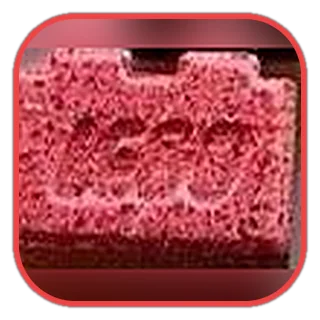
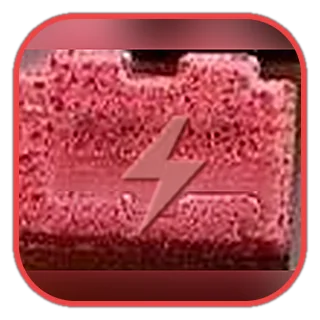
Le Labo : cachets retouchés pour ne plus rappeler de marques connues
- cachet souris : passé en orange, visage effacé, étoile gravée (renommé « Cachet ourson »)
- cachet brique (aussi la petite taz du bonus) : logo effacé, grain reconstitué, éclair gravé
- cache spinbet-v13

Claude-Session: https://claude.ai/code/session_017EaWtL9mGHHqnePr7Tdfev

diff --git a/index.html b/index.html
@@ -7248,6 +7248,7 @@ __mods['updates.js'] = (() => {
 const { getGame } = __mods['games/index.js'];
 
 const UPDATES = [
+  { game: 'labo', date: '2026-11-01', title: 'Cachets retouchés', items: ['Nouveau cachet ourson orange avec une étoile', 'Nouvelle taz brique avec un éclair gravé'] },
   { game: 'labo', date: '2026-11-01', title: 'Le Boss et la mallette', items: ['Nouveau Boss en symbole premium : cheveux violets, lunettes arc-en-ciel et joint', 'Nouvelle mallette qui lance le bonus', 'Le démon au-dessus des rouleaux est retiré : le festival se voit mieux'] },
   { game: 'labo', date: '2026-11-01', title: 'Joint, champignon et taz pailletée', items: ['Nouveau joint et nouveau champignon magique', 'Nouvelle taz pailletée dans La Mallette : le hippie au sac qui aspire toutes les taz'] },
   { game: 'labo', date: '2026-11-01', title: 'Le Labo prend vie', items: ['Nouvelle jaquette et nouveau décor : le festival', 'Nouveaux symboles : feuille, cachet diamant, buvard LSD, cachet rose, poudre, cachet brique et le Boss', 'Nouveau WILD et nouveau SCATTER : les hippies', 'Nouvelle feuille et feuille d’or dans La Mallette'] },
@@ -9886,7 +9887,7 @@ const FILES = {
   plinko: ['plinko', 'games/impl/plinko.js', 'PlinkoGame', '217f54e3fd'],
   vortex: ['vortex', 'games/impl/vortex.js', 'VortexGame', '3f3eaaaa3b'],
   casse: ['casse', 'games/impl/casse.js', 'CasseGame', 'f3c9203150'],
-  labo: ['labo', 'games/impl/labo.js', 'LaboGame', 'ce7f6f50e8'],
+  labo: ['labo', 'games/impl/labo.js', 'LaboGame', 'e6287e4258'],
   dragons: ['dragons', 'games/impl/dragons.js', 'DragonsGame', '2fcc40562a'],
   billets: ['billets', 'games/impl/billets.js', 'BilletsGame', '67c9c0259d'],
   taco: ['taco', 'games/impl/taco.js', 'TacoGame', 'f909ad5846'],

diff --git a/games/labo.js b/games/labo.js
@@ -139,7 +139,7 @@ const painted = (name) => PAINTED.has(name);
 const img = (name, cls = 'lb-img') => `<img class="${cls}" src="${asset(`assets/games/labo/${name}.webp`)}" alt="" draggable="false" decoding="async">`;
 const symArt = (v) => (painted(FILE(v)) ? img(FILE(v)) : art(SVGID(v)));
 
-const NAMES = ['Feuille', 'Joint', 'Cachet diamant', 'Champignon magique', 'Buvard LSD', 'Cachet rose', 'Poudre', 'Cachet brique', 'Le Boss'];
+const NAMES = ['Feuille', 'Joint', 'Cachet diamant', 'Champignon magique', 'Buvard LSD', 'Cachet ourson', 'Poudre', 'Cachet brique', 'Le Boss'];
 const BUY_FS = 50, BUY_CASE = 33;
 const CUPN = ['Taz brique', 'Taz violette', 'Taz diamant'], CUPC = ['#ef4444', '#a855f7', '#38bdf8'];
 const bArt = (name, svg) => (painted(name) ? img(name) : art(svg));

diff --git a/sw.js b/sw.js
@@ -1,6 +1,6 @@
 // SpinBet Casino service worker: makes the site installable and opens it even on a weak connection.
 // Pages are network-first (updates show up right away), the app's own images are cache-first.
-const CACHE = 'spinbet-v12';
+const CACHE = 'spinbet-v13';
 const CORE = ['./', './index.html', './manifest.webmanifest', './assets/icon-192.png', './assets/icon-512.png'];
 
 self.addEventListener('install', (e) => {
